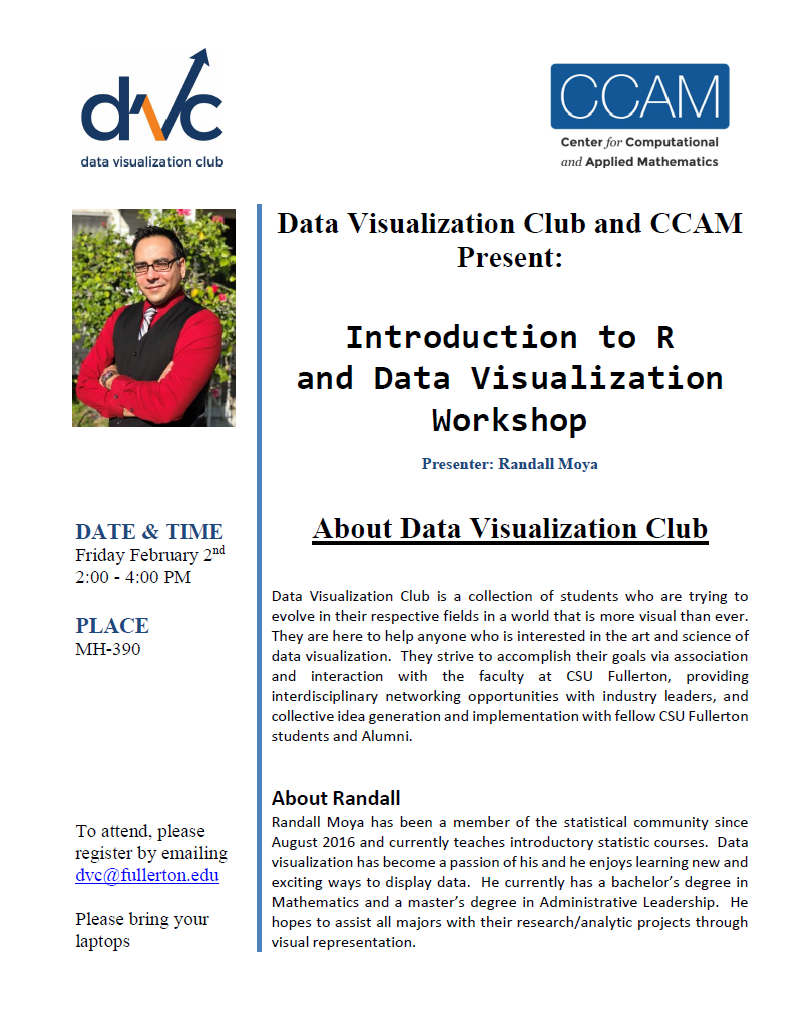
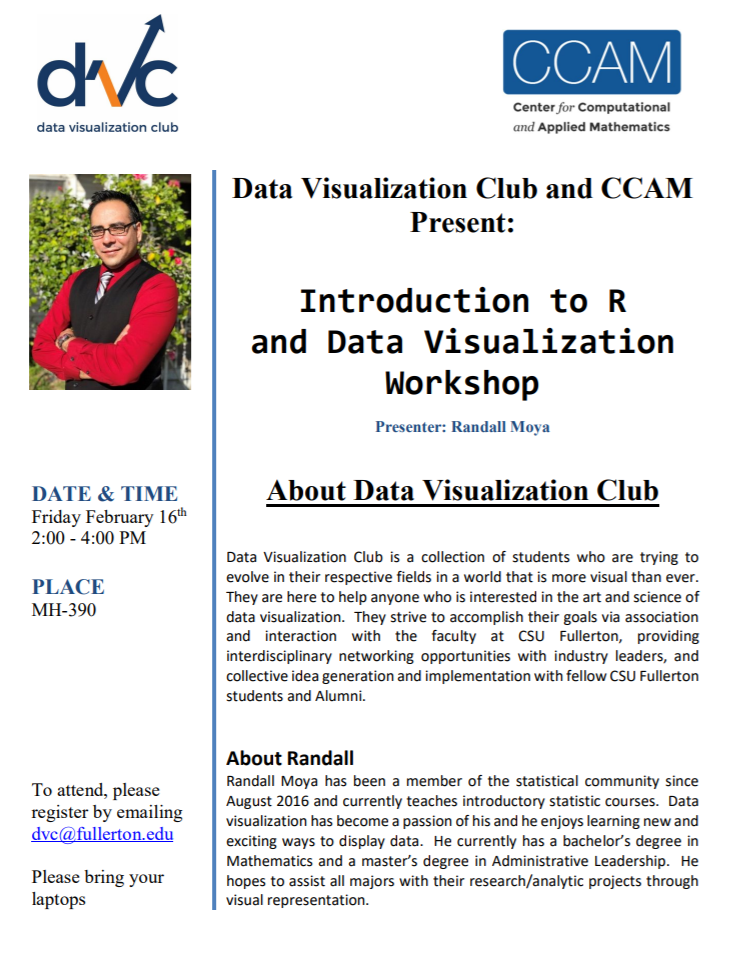
update flyer and about poster

Changed region(s): [[0.0302, 0.0, 0.9657, 0.9558]]

diff --git a/_site/about/index.html b/_site/about/index.html
@@ -446,6 +446,8 @@ a world that is more visual than ever. Sometimes, <strong>TEXT</strong> does not
 are here to help anyone who is interested in the art and science of data visualization, 
 and be helped to improve our work.</p>
 
+<p><img src="/assets/Flyers/AboutDVC.png" alt="About" /></p>
+
 <p><strong>Special Thanks:</strong></p>
 
 <p>We would like to give credit for the design of the logo on our business cards, flyers and 

diff --git a/_site/index.html b/_site/index.html
@@ -411,7 +411,7 @@ MathJax.Hub.Config({
 
   <div class="archive">
     
-    <img src="/assets/Flyers/DVC Workshop Flyer.pdf" alt="Workshop Flyer" style="width:100%;">
+    <img src="/assets/Flyers/flyer.png" alt="Workshop Flyer" style="width:100%;">
 <h3 class="archive__subtitle">Recent Posts</h3>
 
 

diff --git a/_pages/about.md b/_pages/about.md
@@ -16,6 +16,9 @@ a world that is more visual than ever. Sometimes, **TEXT** does not cut it anymo
 are here to help anyone who is interested in the art and science of data visualization, 
 and be helped to improve our work. 
 
+![About](/assets/Flyers/AboutDVC.png)
+
+
 **Special Thanks:**
 
 We would like to give credit for the design of the logo on our business cards, flyers and 
